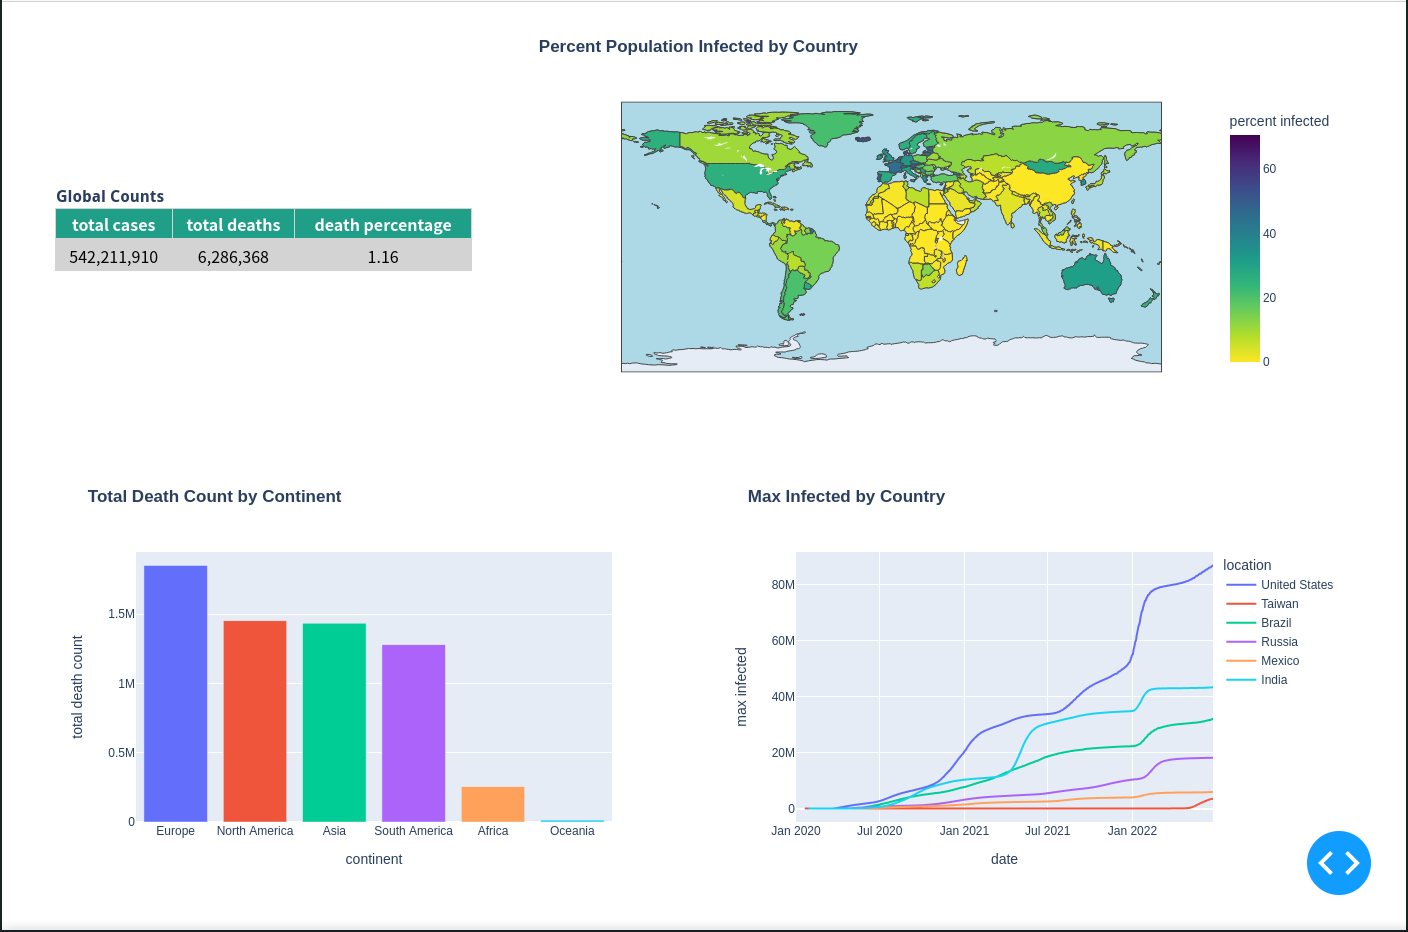
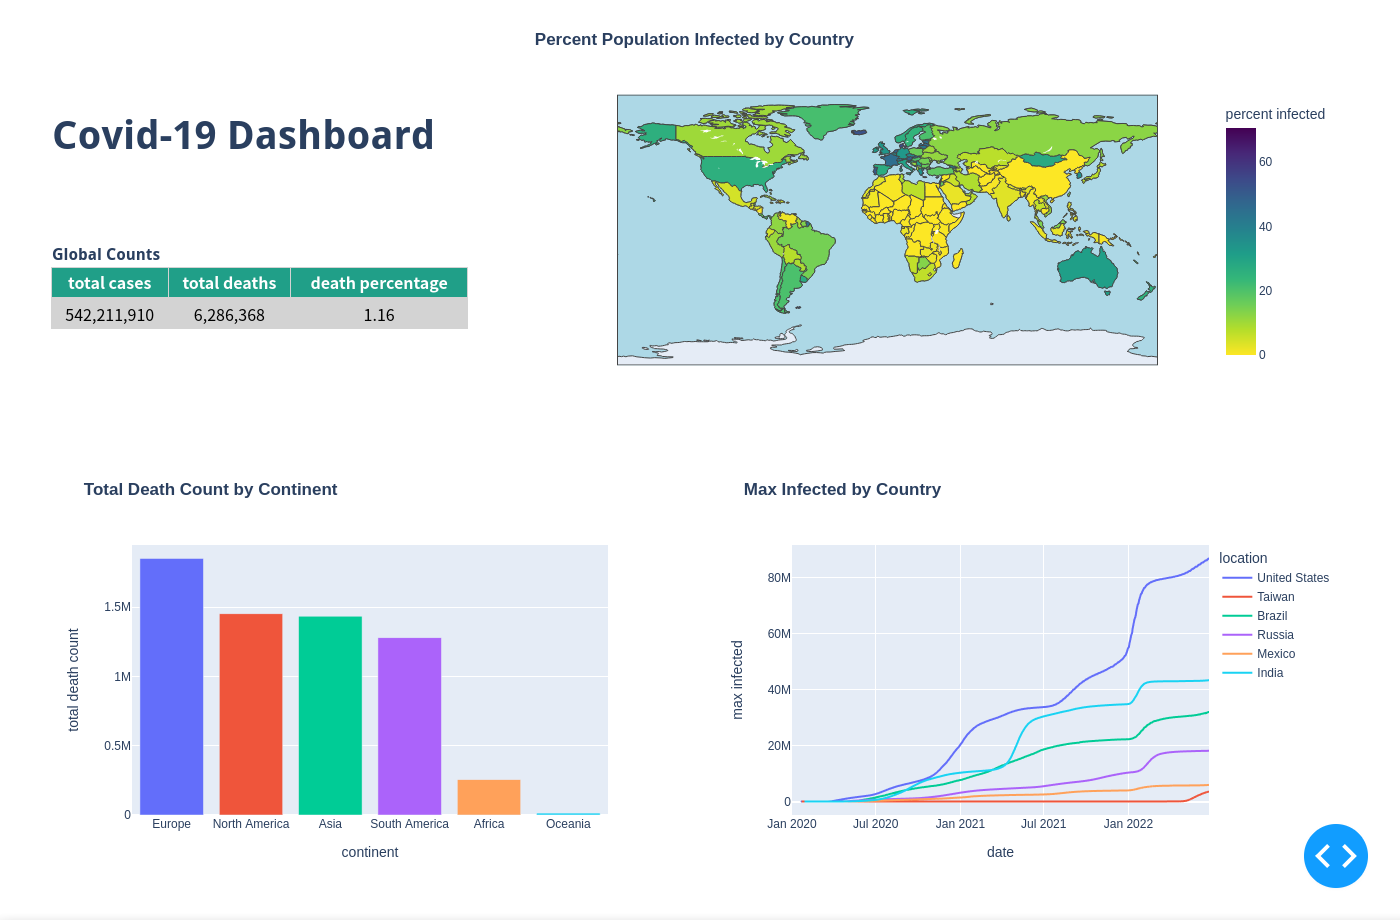
dashboard png edits

diff --git a/dash_app.py b/dash_app.py
@@ -82,7 +82,7 @@ time_series_fig = px.line(df4, x='date', y=['location', 'max infected'],
                           title='<b>Max Infected by Country</b>',
                           )
 time_series_fig.update_yaxes(
-        title_text="max infected",)
+    title_text="max infected", )
 
 table_view = dash_table.DataTable(
     df1.to_dict('records'),
@@ -116,13 +116,20 @@ time_series_view = dcc.Graph(
 
 app.layout = dbc.Container([
     dbc.Row([
-        dbc.Col([html.Label("Global Counts",
-                            style={'font-family': 'Open Sans',
-                                   'font-sze': 17,
-                                   'font-weight': 'bold',
-                                   'color': '#2a3f5f'}),
-                 table_view],
-                align='center', width=4),
+        dbc.Col([
+            html.H1("Covid-19 Dashboard",
+                    style={'font-family': 'Open Sans',
+                           'font-sze': 32,
+                           'font-weight': 'bold',
+                           'color': '#2a3f5f'}),
+            html.Div(style={'height': 75}),
+            html.Label("Global Counts",
+                       style={'font-family': 'Open Sans',
+                              'font-sze': 17,
+                              'font-weight': 'bold',
+                              'color': '#2a3f5f'}),
+            table_view],
+            align='center', width=4),
         dbc.Col(map_view, width=8)
     ]),
     dbc.Row([
